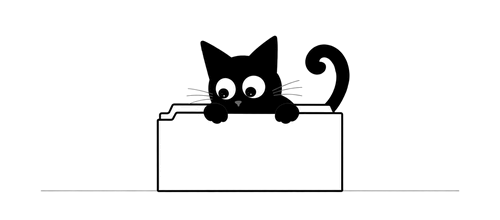
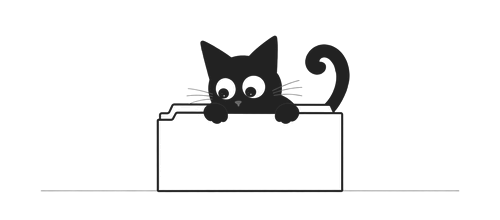
style(ui): 墨色从纯黑 #000 调到 #222——对白底 21:1 太刺眼；空态猫图同步调暗部

Changed region(s): [[0.3, 0.1636, 0.72, 0.5727], [0.3, 0.8455, 0.69, 0.8727]]

diff --git a/src/tokens.css b/src/tokens.css
@@ -19,7 +19,7 @@
      反色面上的空心描边那一档（ink-faint-inverse）删了：勾选行用 surface 不反色 */
   --surface: #f2f2f2; /* 次级面：悬停、勾选行、确认遮罩下的底 */
   --hairline: #e2e2e2; /* 刻度线：行与行、顶栏底 */
-  --ink: #000000; /* 主文字、结构线、实心黑体块 */
+  --ink: #222222; /* 主文字、结构线、实心黑体块（不用纯黑：对白底 21:1 刺眼，#222 约 15.9:1） */
   --ink-mute: #5a5a5a; /* 次要文字、文字链；黑面上的分隔线 */
   --ink-faint: #9a9a9a; /* 弱文字；黑面上的次字 */
   --disabled: #c8c8c8; /* 禁用描边与文字 */

diff --git a/tests/ui.test.ts b/tests/ui.test.ts
@@ -82,7 +82,7 @@ test("tokens：七个中性灰、2px 控件圆角、28/24/32 控件高、行高 
     ["canvas", "#ffffff"],
     ["surface", "#f2f2f2"],
     ["hairline", "#e2e2e2"],
-    ["ink", "#000000"],
+    ["ink", "#222222"],
     ["ink-mute", "#5a5a5a"],
     ["ink-faint", "#9a9a9a"],
     ["disabled", "#c8c8c8"],

diff --git a/docs/DESIGN.md b/docs/DESIGN.md
@@ -7,7 +7,7 @@ colors:
   canvas: "#ffffff"
   surface: "#f2f2f2"
   hairline: "#e2e2e2"
-  ink: "#000000"
+  ink: "#222222"
   ink-mute: "#5a5a5a"
   ink-faint: "#9a9a9a"
   disabled: "#c8c8c8"
@@ -573,6 +573,8 @@ components:
 ## Colors
 
 **整个界面零色彩。** 七个**中性**灰阶（R=G=B），没有任何有彩色的值。第一版灰阶照搬 SpaceX 的偏蓝灰（`#f0f0fa` `#e0e0e8`…），评审指出那是「零色彩」里唯一的色相——要么承认它，要么换中性。换了。规范规定色彩全部来自照片，工具里没有照片，所以一个色都不用。
+
+**墨色不用纯黑，用 `#222222`**（2026-09-24 产品负责人：对比 Grok、Codex，他们的黑都比我们浅，更舒服）。实测对方正文 `#323231` / `#3B3D3F`；纯黑配纯白对比 21:1 到了上限，久看刺眼；`#222` 约 15.9:1 仍远高于长时间阅读的 7:1，而实心黑块（选中片、主按钮、实心格点、提示框）仍有分量——`#333` 会让「已选中」发灰。画布仍是纯白（先只改一处，看效果）。空态插图里的猫身同样从纯黑调到 `#222`（只调最暗那一段，`#5a5a5a` 及以上的灰不动）。
 
 强调只有三种手段，按强度递增：**次要文字（`ink-mute`）→ 加粗 → 反色（`ink` 底 `canvas` 字）**。红色不是其中之一。
 
@@ -1142,6 +1144,7 @@ components:
 - **2026-09-23 · 格子悬停不再预览结果**（产品负责人真机）：悬停时点变色（先是 ● 变空环，后是 40% 浓度）都会被读成已经点了。改为点本身不变，只在下层出圆形光晕（`hairline` 色，`surface` 在行列带交叉处看不见）；结果交给提示框的动词。工具行 agent 项的状态点同理。
 - **2026-09-23 · 删收件箱、待处理页与「忽略」**（产品负责人）：问题已在行上就地显示并处理，收件箱是同一件事的第二处。改为就地常显 + 新问题右下黑窗提示一次（`查看` 跳到那一行、看过即止，没看就下次再提示）。原只在待处理页的能力各归其位：孤链成行、点格清除；整列是链接点格确认拆开；MCP 差异在行上就地展开；位置无效点格在访达中显示；模型的接管 / 重新写入进 Codex 行内待办条。页签计数与 `待处理` 筛选不做。
 - **2026-09-23 · 添加来源改为「先选文件夹，再看建议的来源」**（产品负责人：信息次序错了——第一层是来源，skill 只用来确认；选文件夹是第一步）：取代左候选 / 右预览两栏；`选择文件夹…` 放在最上；每个来源行外露一行 skill 名，可展开全部。
+- **2026-09-24 · 墨色 #000 → #222**（产品负责人）：纯黑久看刺眼；三档对比（#000 / #222 / #333）选 #222，保住黑块的分量。空态猫图同步调。
 - **2026-09-24 · 开关的状态＝Codex 正在用的状态**（产品负责人）：Codex 在跑时拨开关先确认重启（`把 3 个第三方模型添加到 Codex？` / `从 Codex 移除第三方模型？`，主动作 `重启并添加` / `重启并移除`），取消则开关不动；没成则开关与配置一起回到原样；Codex 没在跑直接生效；改选模型仍用 `重启生效`。取代开关的乐观翻转。
 - **2026-09-24 · Skills 与 MCP 同一个固定面板宽度**（产品负责人：上面的区域宽度随表格变、两页不一样）：取代「右沿随各自内容」（仅模型页保留）；agent 少时多出的给名称列。
 - **2026-09-24 · 网关页改为与来源管理页同一套骨架**（产品负责人：布局与交互和其他页面出入大，增加学习成本）：分段片切换 → 一家网关一行、点整行展开选模型；`+ 网关` 到页头右端；编辑 / 新增的表单在行里就地展开；删网关仍是垃圾桶 + 确认（密钥一起删）。
